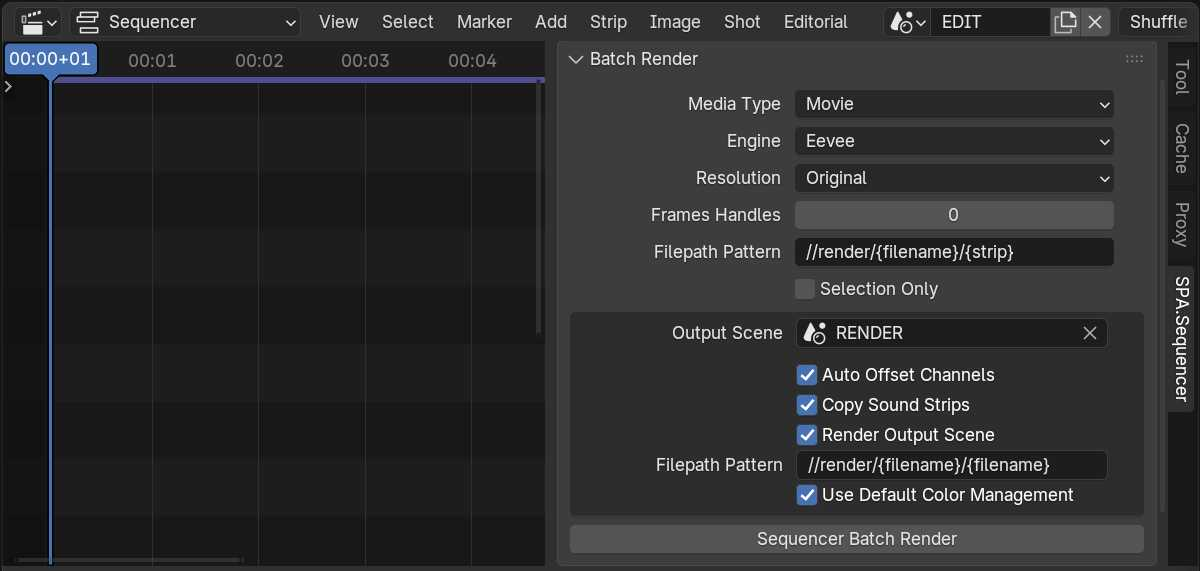
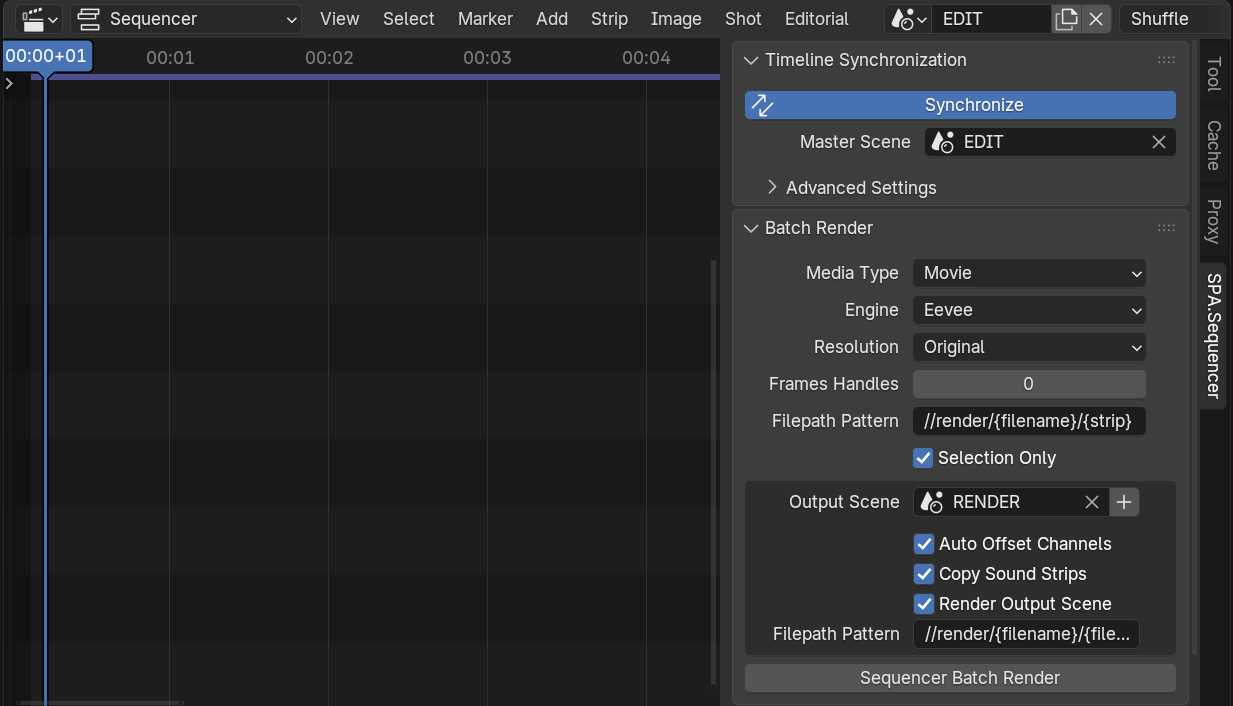
Feature: New Output Scene (#68)
* Remove Color Management from Batch Render

* Add New Output Scene Operator

* Improve Operator Draw Message and Layout

* Update Docs

* Remove No-op code

* Copy Color Management if not using default color

* Clarify Documentation

* Apply Formatting

* Update Comment

---------

Changed region(s): [[0.0, 0.0, 1.0, 1.0], [0.8942, 0.6848, 0.925, 0.7443]]

diff --git a/spa_sequencer/render/ops.py b/spa_sequencer/render/ops.py
@@ -455,7 +455,109 @@ class SEQUENCER_OT_batch_render(bpy.types.Operator):
         self.global_overrides.revert()
 
 
-classes = (SEQUENCER_OT_batch_render,)
+class SEQUENCER_OT_new_output_scene(bpy.types.Operator):
+    bl_idname = "sequencer.new_output_scene"
+    bl_label = "New Output Scene"
+    bl_description = (
+        "Create or configure a new output scene by copying render settings"
+        "from the current master scene"
+    )
+    bl_options = {"REGISTER", "UNDO"}
+
+    scene_name: bpy.props.StringProperty(
+        name="Name",
+        description="Name for the new output scene",
+        default="RENDER",
+    )
+
+    set_color_management: bpy.props.BoolProperty(
+        name="Use Default Color",
+        description=(
+            "Set color management to SPArk Output scene defaults "
+            "(Standard view transform, sRGB color space)"
+        ),
+        default=True,
+    )
+
+    @classmethod
+    def poll(cls, context: bpy.types.Context):
+        master_scene = get_sync_settings().master_scene
+        return bool(master_scene and master_scene.sequence_editor)
+
+    def invoke(self, context, event):
+        return context.window_manager.invoke_props_dialog(self)
+
+    def draw(self, context: bpy.types.Context):
+        self.layout.use_property_split = True
+        self.layout.prop(self, "scene_name")
+        self.layout.prop(self, "set_color_management")
+
+    def execute(self, context: bpy.types.Context):
+        edit_scene = get_sync_settings().master_scene
+
+        # Create new output scene.
+        new_output_scene = bpy.data.scenes.new(self.scene_name)
+
+        # Copy all RenderSettings from the master scene.
+        for prop in edit_scene.render.bl_rna.properties:
+            if prop.is_readonly:
+                continue
+            setattr(
+                new_output_scene.render,
+                prop.identifier,
+                getattr(edit_scene.render, prop.identifier),
+            )
+
+        # Copy scene frame range.
+        new_output_scene.frame_start = edit_scene.frame_start
+        new_output_scene.frame_end = edit_scene.frame_end
+        new_output_scene.frame_step = edit_scene.frame_step
+
+        # Optionally apply color management defaults for video editing.
+        if self.set_color_management:
+            new_output_scene.display_settings.display_device = "sRGB"
+            new_output_scene.view_settings.look = "None"
+            new_output_scene.view_settings.view_transform = "Standard"
+            new_output_scene.view_settings.exposure = 0.0
+            new_output_scene.view_settings.gamma = 1.0
+            new_output_scene.sequencer_colorspace_settings.name = "sRGB"
+            new_output_scene.view_settings.use_curve_mapping = False
+
+        # Copy display/view settings from edit scene
+        # This is meant to copy all the settings in the Color Management tab in the UI
+        else:
+            for prop in edit_scene.display_settings.bl_rna.properties:
+                if prop.is_readonly:
+                    continue
+                setattr(
+                    new_output_scene.display_settings,
+                    prop.identifier,
+                    getattr(edit_scene.display_settings, prop.identifier),
+                )
+            for prop in edit_scene.view_settings.bl_rna.properties:
+                if prop.is_readonly:
+                    continue
+                setattr(
+                    new_output_scene.view_settings,
+                    prop.identifier,
+                    getattr(edit_scene.view_settings, prop.identifier),
+                )
+
+        # Ensure the output scene has a sequence editor.
+        if not new_output_scene.sequence_editor:
+            new_output_scene.sequence_editor_create()
+
+        # Set as the output scene.
+        edit_scene.batch_render_options.output_scene = new_output_scene
+
+        self.report({"INFO"}, f"Output scene set to '{new_output_scene.name}'.")
+        return {"FINISHED"}
+
+
+classes = (
+    SEQUENCER_OT_batch_render,
+    SEQUENCER_OT_new_output_scene,
+)
 
 
 def register():

diff --git a/spa_sequencer/render/tasks.py b/spa_sequencer/render/tasks.py
@@ -514,26 +514,6 @@ class SequenceRenderTask(BaseRenderTask):
         # Override render settings based on media type
         file_format, file_ext = MEDIA_TYPES_FORMATS["MOVIE"]
 
-        # Ensure Render Scene uses Color Managment Profile same as Default Video Editing file
-        if render_options.output_set_color:
-            self.overrides.set(self.scene.display_settings, "display_device", "sRGB")
-
-            # The get/set can break if View Transform is set to AGX instead of Standard
-            # because looks are called like 'AgX - Low Contrast' and not 'Low Constrast'
-            # Workaround:
-            # clear look settings if set to AgX because its not intended for VSE use
-            if getattr(self.scene.view_settings, "view_transform") == "AgX":
-                setattr(self.scene.view_settings, "look", "None")
-
-            self.overrides.set(self.scene.view_settings, "look", "None")
-            self.overrides.set(self.scene.view_settings, "view_transform", "Standard")
-            self.overrides.set(self.scene.view_settings, "exposure", 0.0)
-            self.overrides.set(self.scene.view_settings, "gamma", 1.0)
-            self.overrides.set(self.scene.sequencer_colorspace_settings, "name", "sRGB")
-
-            self.overrides.set(self.scene.view_settings, "use_hdr_view", False)
-            self.overrides.set(self.scene.view_settings, "use_curve_mapping", False)
-
         # Only consider range of video media types.
         sequences = [
             s

diff --git a/spa_sequencer/render/ui.py b/spa_sequencer/render/ui.py
@@ -24,7 +24,9 @@ class SEQUENCER_PT_batch_render(bpy.types.Panel):
         self.layout.prop(options, "filepath_pattern")
         self.layout.prop(options, "selection_only")
         box = self.layout.box()
-        box.prop(options, "output_scene")
+        row = box.row(align=True)
+        row.prop(options, "output_scene")
+        row.operator("sequencer.new_output_scene", text="", icon="ADD")
         if options.output_scene:
             col = box.column(align=True)
             col.prop(options, "output_auto_offset_channels")
@@ -32,7 +34,6 @@ class SEQUENCER_PT_batch_render(bpy.types.Panel):
             col.prop(options, "render_output_scene")
             if options.render_output_scene:
                 col.prop(options, "output_render_filepath_pattern")
-                col.prop(options, "output_set_color")
         self.layout.operator("sequencer.batch_render")
 
 

diff --git a/spa_sequencer/render/props.py b/spa_sequencer/render/props.py
@@ -103,18 +103,6 @@ class BatchRenderOptions(bpy.types.PropertyGroup):
         default=False,
         options=set(),
     )
-    output_set_color: bpy.props.BoolProperty(
-        name="Use Default Color Management",
-        description=(
-            "If enabled, temporarily override color management settings of output scene. "
-            "View Transform='Standard' and Look='None' in the sRGB Color Space. "
-            "Exposure, Gamma and Curve Mapping are also set to default values. "
-            "CAUTION: If output scene uses AgX, Look value will not be restored "
-            "to it's original value"
-        ),
-        default=True,
-        options=set(),
-    )
 
     filepath_pattern: bpy.props.StringProperty(
         name="Filepath Pattern",

diff --git a/docs/render.md b/docs/render.md
@@ -46,7 +46,22 @@ The outputs scene has several additional options:
 
     - **Filepath Pattern**: Define a custom file naming scheme for the Output Scene render file(s). Only available if **Render Output Scene** is available.
 
-    - **Use Default Color Management**: If enabled, temporarily override color management settings of output scene. `View Transform='Standard'` and `Look='None'` in the `sRGB` Color Space. Exposure, Gamma and Curve Mapping are also set to default values. CAUTION: If output scene uses AgX, Look value will not be restored to its original value. Only available if **Render Output Scene** is available.
+
+
+### + / New Output Scene: 
+![Batch Render Panel](media/batch_render_new_output.jpg)
+
+Operator to copy the current Master Scene's render settings and setup a new blank scene to use as the output Scene.
+
+- **Name**: The desired name of your output scene. If naming conflict is found Blender will add a .001 to the end of your scene's name.
+
+- **Use Default Color**: Default Color, is meant to replicate the color management settings of Blender's video editing template. When rendering the View Transform (AgX, Filmic, etc) is baked into the output .JPEG/MOV files. To properly represent renders in the Output the below color settings are used. If disabled the [Color Management](https://docs.blender.org/manual/en/4.0/render/color_management.html) will be copied from the [Master Scene](sync.md#master-scene).
+    - `Display Device = sRGB`
+    - `View Transform = Standard`
+    - `Look = None`
+    - `Exposure = 0.0`
+    - `Gamma = 1.0`
+    - `Curve Mapping = False`.
 
 
 ### Sequencer Batch Render Operator
